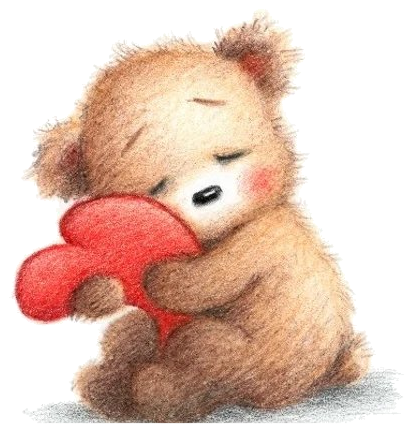
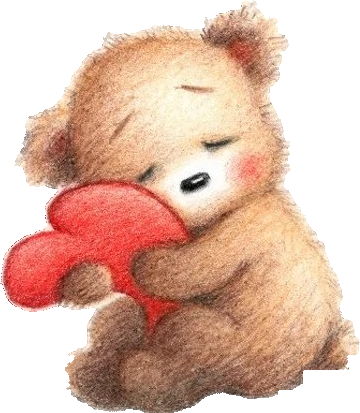
fix: correct border contour for teddy 2 Sweet Dreams without ground shadow pedestal

diff --git a/js/ascii-teddy.js b/js/ascii-teddy.js
@@ -34,22 +34,22 @@ export class AsciiTeddy {
       {
         id: 'hugging-heart',
         title: 'Hugging Heart',
-        src: 'assets/teddy-1-clean.png?v=7.0'
+        src: 'assets/teddy-1-clean.png?v=11.0'
       },
       {
         id: 'sweet-dreams',
         title: 'Sweet Dreams',
-        src: 'assets/teddy-2-clean.png?v=7.0'
+        src: 'assets/teddy-2-clean.png?v=11.0'
       },
       {
         id: 'heart-balloon',
         title: 'Heart Balloon',
-        src: 'assets/teddy-3-clean.png?v=7.0'
+        src: 'assets/teddy-3-clean.png?v=11.0'
       },
       {
         id: 'love-balloon',
         title: 'Love Balloon',
-        src: 'assets/teddy-4-standing-clean.png?v=7.0'
+        src: 'assets/teddy-4-standing-clean.png?v=11.0'
       }
     ];
 
@@ -329,7 +329,7 @@ export class AsciiTeddy {
           }
         }
 
-        if (alpha < 0.08 && !isStardust) continue;
+        if (alpha < 0.16 && !isStardust) continue;
 
         const maxC = Math.max(red, grn, blu);
         let lum = (0.55 * (maxC / 255) + 0.45 * (0.299 * red + 0.587 * grn + 0.114 * blu) / 255);
@@ -339,10 +339,11 @@ export class AsciiTeddy {
         let isHeart = false;
 
         // Accurate Heart vs Plush Fur classification
-        // In watercolor red hearts, red heavily exceeds green and blue, and green is NOT much higher than blue (unlike yellow/amber fur where green >> blue)
+        // In watercolor red hearts, red heavily exceeds green and blue, and green is NOT much higher than blue
         const isHeartColor = (red - grn >= 46) && (red - blu >= 42) && (grn - blu <= 16) && (red > 125);
         const isDarkEyes = (red < 65) && (grn < 65) && (blu < 65);
-        const isMuzzleHighlight = !isHeartColor && !isDarkEyes && (red > 225) && (grn > 200) && (blu > 170);
+        // Genuine warm muzzle/snout highlight requires true warmth (red > blu + 26) so bleached paper fringes never glow
+        const isMuzzleHighlight = !isHeartColor && !isDarkEyes && (red > 220) && (grn > 195) && (blu > 165) && (red - blu >= 26) && (red - grn >= 8);
 
         if (isStardust) {
           char = '✦';
@@ -360,8 +361,8 @@ export class AsciiTeddy {
           finalCol = 'rgb(30, 14, 6)';
           char = '@';
         } else if (isMuzzleHighlight) {
-          // Soft warm cream muzzle, snout & cheek highlights
-          finalCol = 'rgb(248, 230, 205)';
+          // Soft warm golden cream muzzle, snout & cheek highlights
+          finalCol = 'rgb(244, 218, 180)';
           char = '%';
         } else {
           // Warm Plush Honey-Amber Fur (Rich golden caramel & cinnamon brown)
@@ -374,9 +375,9 @@ export class AsciiTeddy {
           char = this.bodyChars[charIdx] || '#';
         }
 
-        // Luminous glowing character rendering with highlight glow
-        if (isHeart || lum > 0.65 || isStardust) {
-          const glowRadius = isHeart ? (isPulsing ? 14 : 7) : (dpr > 1 ? 5 : 3);
+        // Luminous glowing character rendering with highlight glow (only for opaque highlights, avoiding edge noise)
+        if (isHeart || (lum > 0.72 && alpha > 0.7) || isStardust) {
+          const glowRadius = isHeart ? (isPulsing ? 14 : 7) : (dpr > 1 ? 4 : 2);
           ctx.shadowColor = isHeart ? 'rgba(255, 40, 90, 0.95)' : finalCol;
           ctx.shadowBlur = glowRadius;
         } else {

diff --git a/index.html b/index.html
@@ -12,7 +12,7 @@
   <link rel="preconnect" href="https://fonts.gstatic.com" crossorigin>
   <link href="https://fonts.googleapis.com/css2?family=Alex+Brush&family=Caveat:wght@600;700&family=Cormorant+Garamond:ital,wght@0,300;0,400;0,600;1,300;1,400&family=Inter:wght@300;400;500;600;700;800&family=JetBrains+Mono:wght@400;600;700&display=swap" rel="stylesheet">
 
-  <link rel="stylesheet" href="css/style.css?v=10.0">
+  <link rel="stylesheet" href="css/style.css?v=11.0">
 </head>
 <body class="theme-aurora">
 
@@ -256,6 +256,6 @@
   <!-- Toast Notification Feedback -->
   <div id="toast-msg" class="toast-msg" aria-live="polite"></div>
 
-  <script type="module" src="js/app.js?v=10.0"></script>
+  <script type="module" src="js/app.js?v=11.0"></script>
 </body>
 </html>

diff --git a/js/app.js b/js/app.js
@@ -18,10 +18,10 @@
  *    - Pure ASCII Key signature for LOKESH KUMAR.
  */
 
-import { AmbientParticles } from './ambient-particles.js?v=10.0';
-import { GiftBoxController } from './gift-box.js?v=10.0';
-import { AsciiTeddy } from './ascii-teddy.js?v=10.0';
-import { AudioManager } from './audio-fx.js?v=10.0';
+import { AmbientParticles } from './ambient-particles.js?v=11.0';
+import { GiftBoxController } from './gift-box.js?v=11.0';
+import { AsciiTeddy } from './ascii-teddy.js?v=11.0';
+import { AudioManager } from './audio-fx.js?v=11.0';
 
 class PigeonTeddyApp {
   constructor() {
